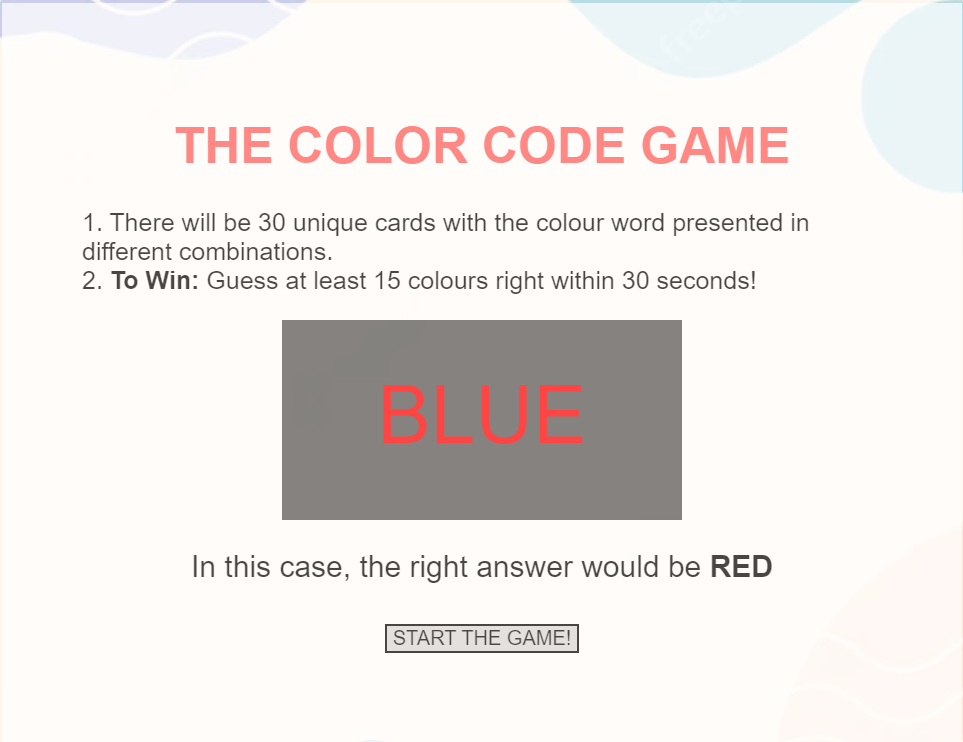
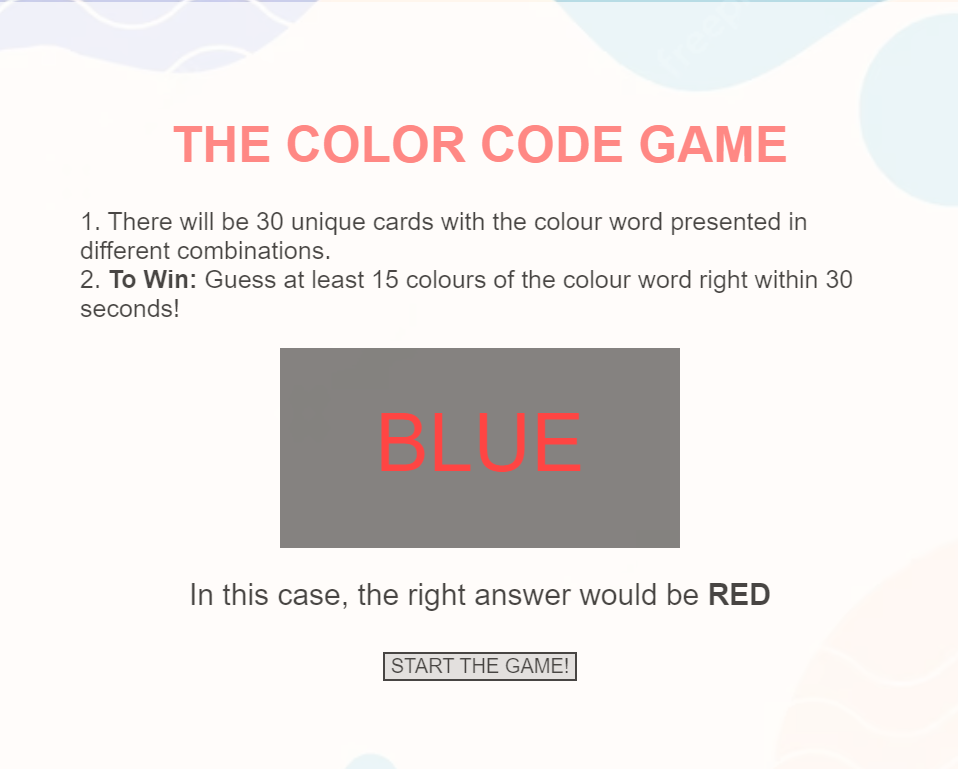
update screenshot and instruction

diff --git a/index.html b/index.html
@@ -16,7 +16,7 @@
          <h1>THE COLOR CODE GAME</h1>
          <!-- Instruction -->
          <div id="instruction">
-            <p>1. There will be 30 unique cards with the colour word presented in different combinations.<br>2. <strong>To Win:</strong> Guess at least 15 colours right within 30 seconds!</p>
+            <p>1. There will be 30 unique cards with the colour word presented in different combinations.<br>2. <strong>To Win:</strong> Guess at least 15 colours of the colour word right within 30 seconds!</p>
             <div class="rectangle">BLUE</div>
             <p class="explanation">In this case, the right answer would be <strong>RED</strong></p>
             <button id="startgame">START THE GAME!</button>

diff --git a/main.js b/main.js
@@ -1,5 +1,4 @@
 /*----- constants -----*/
-
 const totalGames = 30;
 const colors = [
   "RED",
@@ -16,7 +15,6 @@ const colors = [
 ];
 
 /*----- state variables  -----*/
-
 let count = 0;
 let timeLeft = 30;
 

diff --git a/readme.md b/readme.md
@@ -36,7 +36,7 @@ It is demonstrated through the task that it takes longer time and is more prone 
 #### **Instructions**
 
 1. There will be 30 unique cards with the colour word presented in different combinations.
-2. To Win: Get at least 15 colors right within 30 seconds: [Play The Color Code Game Now](https://didadeeee.github.io/color-code/)
+2. To Win: Get at least 15 colors of the colour word right within 30 seconds: [Play The Color Code Game Now](https://didadeeee.github.io/color-code/)
 
 ### **Next Steps**
 
